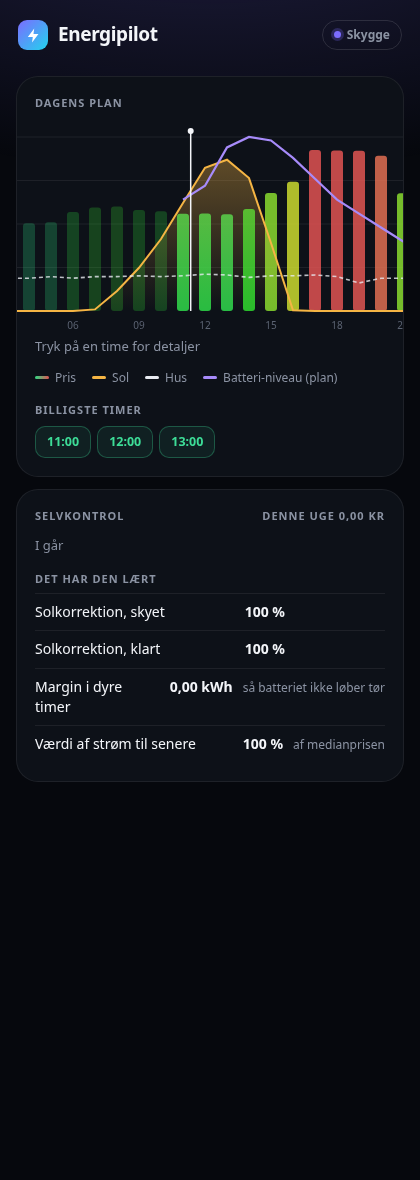
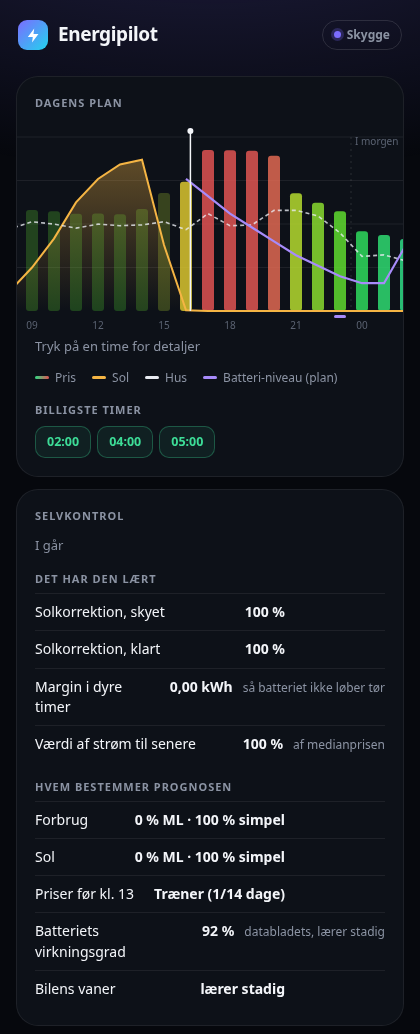
README og billeder opdateret til 0.18 (flow, målt besparelse, blanding med ML, priser fra alle integrationer, modeller og krav-tjek)

diff --git a/README.md b/README.md
@@ -7,24 +7,39 @@ for Home Assistant.** It always starts in *shadow*: it shows what it would do, b
 
 ## What it does
 
-- **Live energy flow** – sun, house, battery, grid and car, with light beams that follow the power.
+- **Live energy flow** – every real path (sun → battery, grid → battery, battery → car …), with light beams that follow
+  the power. Colour shows the source, thickness the power.
 - **A plan for today and tomorrow** – it charges the battery when power is cheap or the sun gives too much, and uses it
   when power is expensive. The car charges on sun first, then in the cheapest hours before it must be ready.
-- **Learns by itself** – your house's use (temperature, weekdays, holidays), what your solar panels make of the
-  sunshine, and every night it checks yesterday with the real numbers and adjusts. A self-check shows what it saved.
+- **What the battery saved – measured** – today, this month, this year and in all, from what you really bought and sold
+  against the same house and sun without the battery. It also knows what the power in the battery cost (a weighted
+  average: grid power at the price paid, solar power free or at the sell price - your choice).
+- **Gets better by itself** – a simple forecast works from day one, and an ML model trained every night on your own
+  data takes over as it proves better: for house use, for the sun (sunlight, cloud, temperature, time of year) and for
+  tomorrow's prices before they're out (wind, sun, weekday, recent prices). If the ML model starts to miss (a new heat
+  pump, a new car), the simple one takes over again. The panel shows who decides and how well each one hits.
+- **Learns your home** – every night it checks yesterday with the real numbers and adjusts the solar correction and the
+  margins. It learns the battery's real efficiency and the car's habits (when it leaves, how much it takes) - what you
+  set yourself always wins.
 - **Your choice of style** – *Cheapest*, *Most sun*, *Safety* (keeps 30 % for power cuts), *Car first* or *Battery first*,
   plus fine-tuning: battery minimum, grid charging, selling, main fuse, quiet hours for battery and car.
 - **Finds what you have** – from the Energy dashboard, known integrations and names. Shows only what you have.
 - **Needs almost nothing** – weather (Open-Meteo), spot prices (Energi Data Service / energy-charts.info for 26 European
-  countries), its own solar forecast and holidays are built in. Your own Strømligning, Nord Pool, Tibber or Solcast is
-  used when you have it. No spot price where you live (USA, UK…)? Enter your tariff plan or start from a template.
-- **Controls many brands** – inverters: Growatt, Huawei, SolaX, Sungrow, SolarEdge, Fox ESS, GivEnergy, or any other by
-  picking the controls yourself. Chargers: KEBA, Easee, Zaptec, go-e, Wallbox, OCPP and more.
+  countries), its own solar forecast and holidays are built in. Your own Strømligning, Nord Pool, Tibber, Energi Data
+  Service or Solcast is used when you have it - today's and tomorrow's prices, whatever shape they come in. Hours
+  your integration doesn't have yet are filled in, so the plan always reaches as far as anything is known. No spot
+  price where you live (USA, UK…)? Enter your tariff plan or start from a template.
+- **Controls many brands** – inverters: Growatt (SPH/SPA and MIN/MOD TL-XH, picked by model), Huawei, SolaX, Sungrow,
+  SolarEdge, Fox ESS, GivEnergy, or any other by picking the controls yourself. Chargers: KEBA, Easee, Zaptec, go-e,
+  Wallbox, OCPP and more.
+- **Never half a command** – if a control the inverter profile needs is missing, it won't control at all and tells you
+  what's missing. A test in *Shadow* shows every control it found before you let it take over.
 - **Shadow first, always** – each part (battery, car) can be *Shadow*, *In control* or *Off*. One tap puts everything
   back in shadow. It never fights another system that controls the same battery.
 - **Dashboard cards** – energy flow, plan, car, battery or everything, under *Add card → Energipilot*.
 - **Buttons in Home Assistant** – *Charge now*, *Ready at*, *At most*, *Battery minimum*, *Style*, and sensors for the
-  decision, price, battery target and savings - for your own automations.
+  decision, price, battery target, *Saved today / this month / this year / in all* and *Battery power cost* - for your
+  own automations.
 - **Already have an energy system in AppDaemon?** Energy Pilot can run it unchanged, in shadow, and compare.
 
 ![Cards](docs/cards.png)
@@ -43,8 +58,13 @@ Home Assistant address and a long-lived access token, open `http://<host>:8099`.
 
 ## Privacy
 
-Everything runs in your home. It only fetches public data: weather (Open-Meteo), spot prices (Energi Data Service,
-energy-charts.info) and exchange rates (ECB via frankfurter.dev).
+Everything runs in your home, the ML models too. It only fetches public data: weather (Open-Meteo), spot prices
+(Energi Data Service, energy-charts.info) and exchange rates (ECB via frankfurter.dev).
+
+## Good to know
+
+- The inverter profiles for brands other than Growatt SPH are built from their known controls but not yet tried on real
+  systems - run them in shadow first, check the control test, and report back.
 
 ---
 
@@ -55,11 +75,20 @@ Den starter altid i *skygge*: den viser, hvad den ville gøre, men styrer intet,
 
 ![Energipilot](docs/screens_da.png)
 
-- **Levende energiflow** og **dagens og morgendagens plan**.
-- **Lærer selv**: husets forbrug, hvad dine solceller giver, og den gennemgår hver nat gårsdagen og retter sig.
+- **Levende energiflow** med de rigtige strømveje (sol → batteri, net → batteri, batteri → bil …) og **dagens og
+  morgendagens plan**.
+- **Batteriet har sparet – målt**: i dag, måned, år og i alt, ud fra det du faktisk har købt og solgt. Den kender også
+  batteriets kostpris (solstrøm gratis eller til salgsprisen – du vælger).
+- **Bliver selv bedre**: en simpel prognose virker fra dag ét, og en ML-model, der trænes hver nat på dine egne data,
+  overtager efterhånden som den rammer bedre – for forbrug, sol og morgendagens priser før kl. 13. Rammer den ved
+  siden af, tager den simple over igen. Panelet viser, hvem der bestemmer.
+- **Lærer dit hjem**: gennemgår hver nat gårsdagen, lærer batteriets rigtige virkningsgrad og bilens vaner – det du
+  selv indstiller, vinder altid.
+- **Priser fra alle pris-integrationer** (Strømligning, Nord Pool, Tibber, Energi Data Service), i dag og i morgen.
 - **Din stil**: Billigst muligt, Mest sol, Tryghed, Bilen først eller Batteriet først – plus finjustering.
 - **Finder selv det du har** og viser kun det. Vejr, spotpriser, solprognose og helligdage er indbygget.
-- **Styrer mange mærker**: Growatt, Huawei, SolaX, Sungrow, SolarEdge, Fox ESS, GivEnergy og alle andre via selvvalgte
+- **Aldrig en halv kommando**: mangler en kontrol, styrer den ikke, og en test i skygge viser, hvad den fandt.
+- **Styrer mange mærker**: Growatt (SPH/SPA og MIN/MOD TL-XH, efter model), Huawei, SolaX, Sungrow, SolarEdge, Fox ESS, GivEnergy og alle andre via selvvalgte
   kontroller; ladere fra KEBA, Easee, Zaptec, go-e, Wallbox, OCPP m.fl.
 - **Altid skygge først**, kort til dashboards og knapper i Home Assistant.
 
